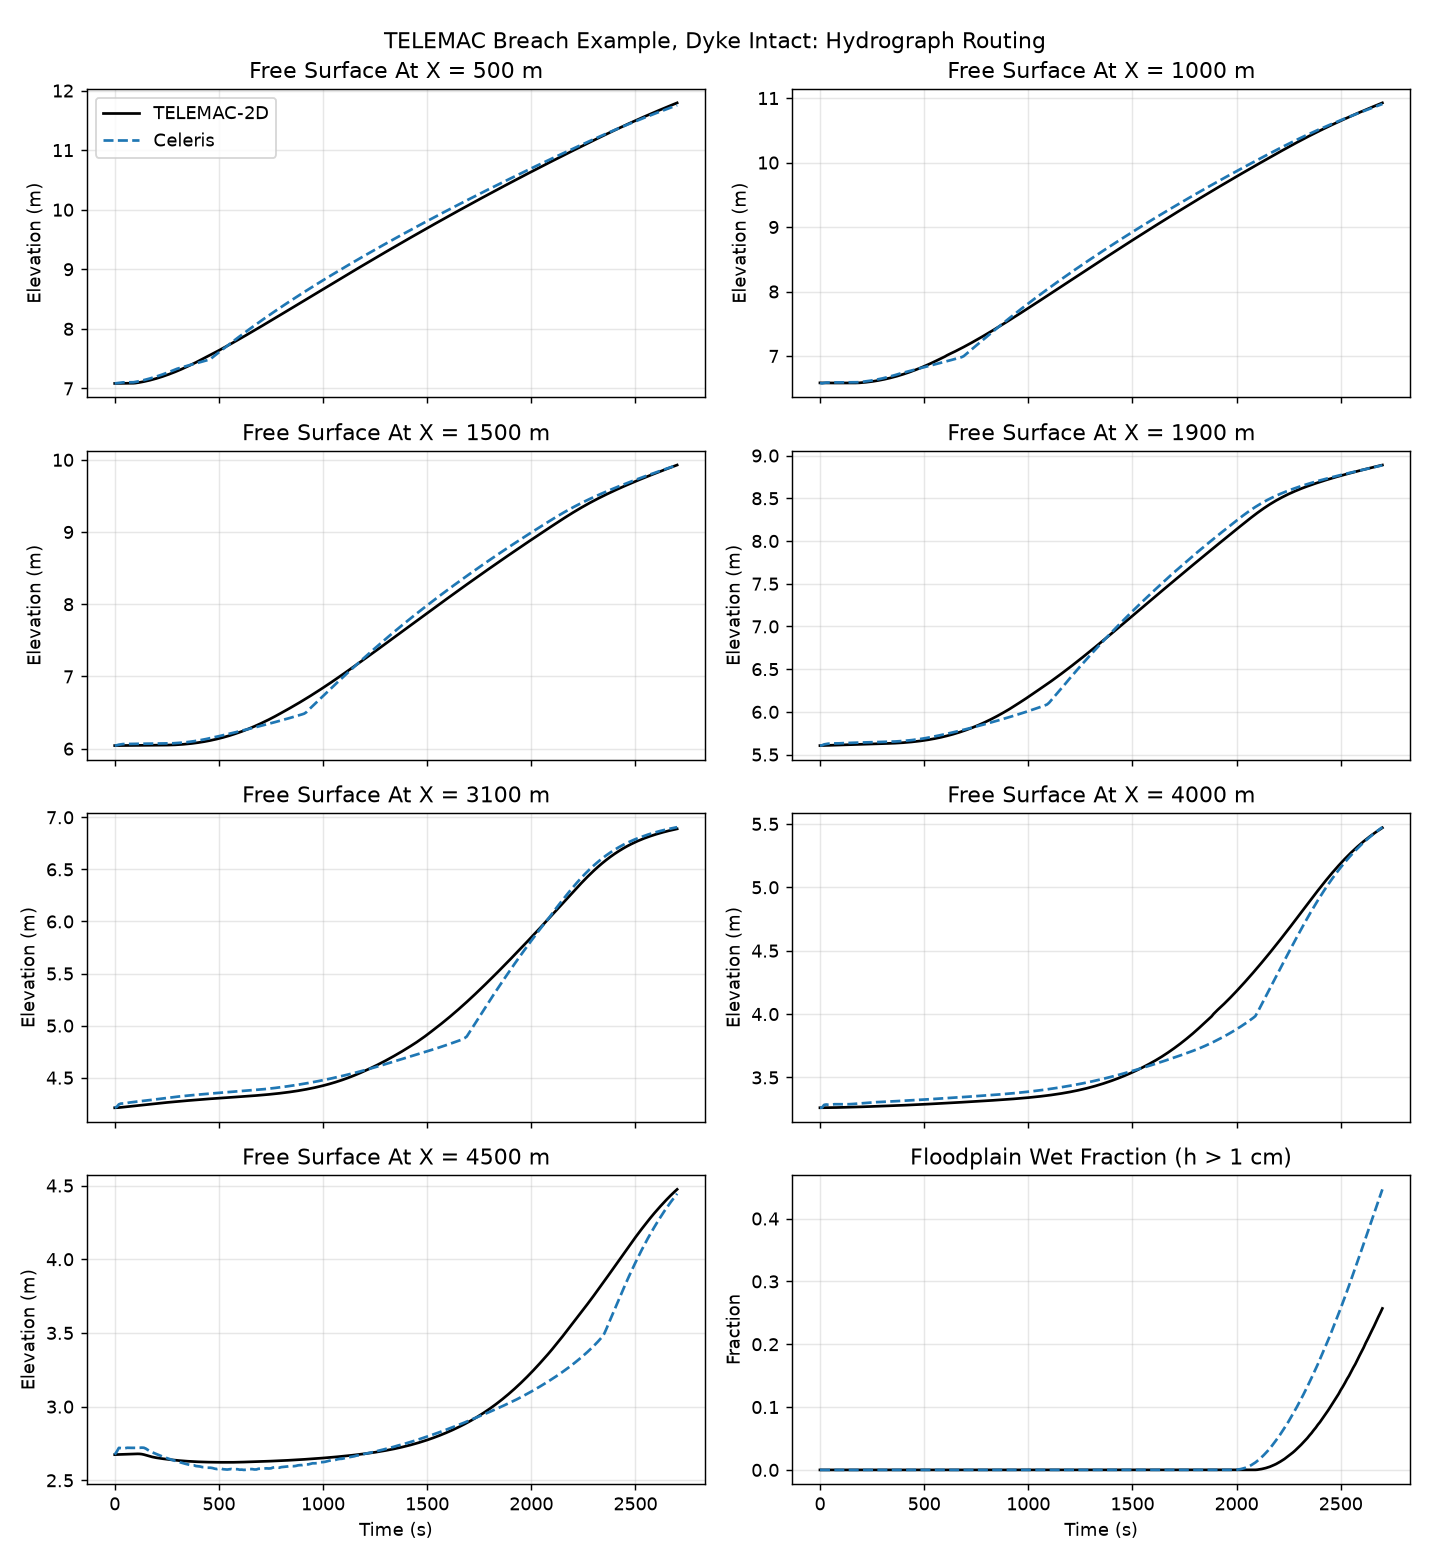
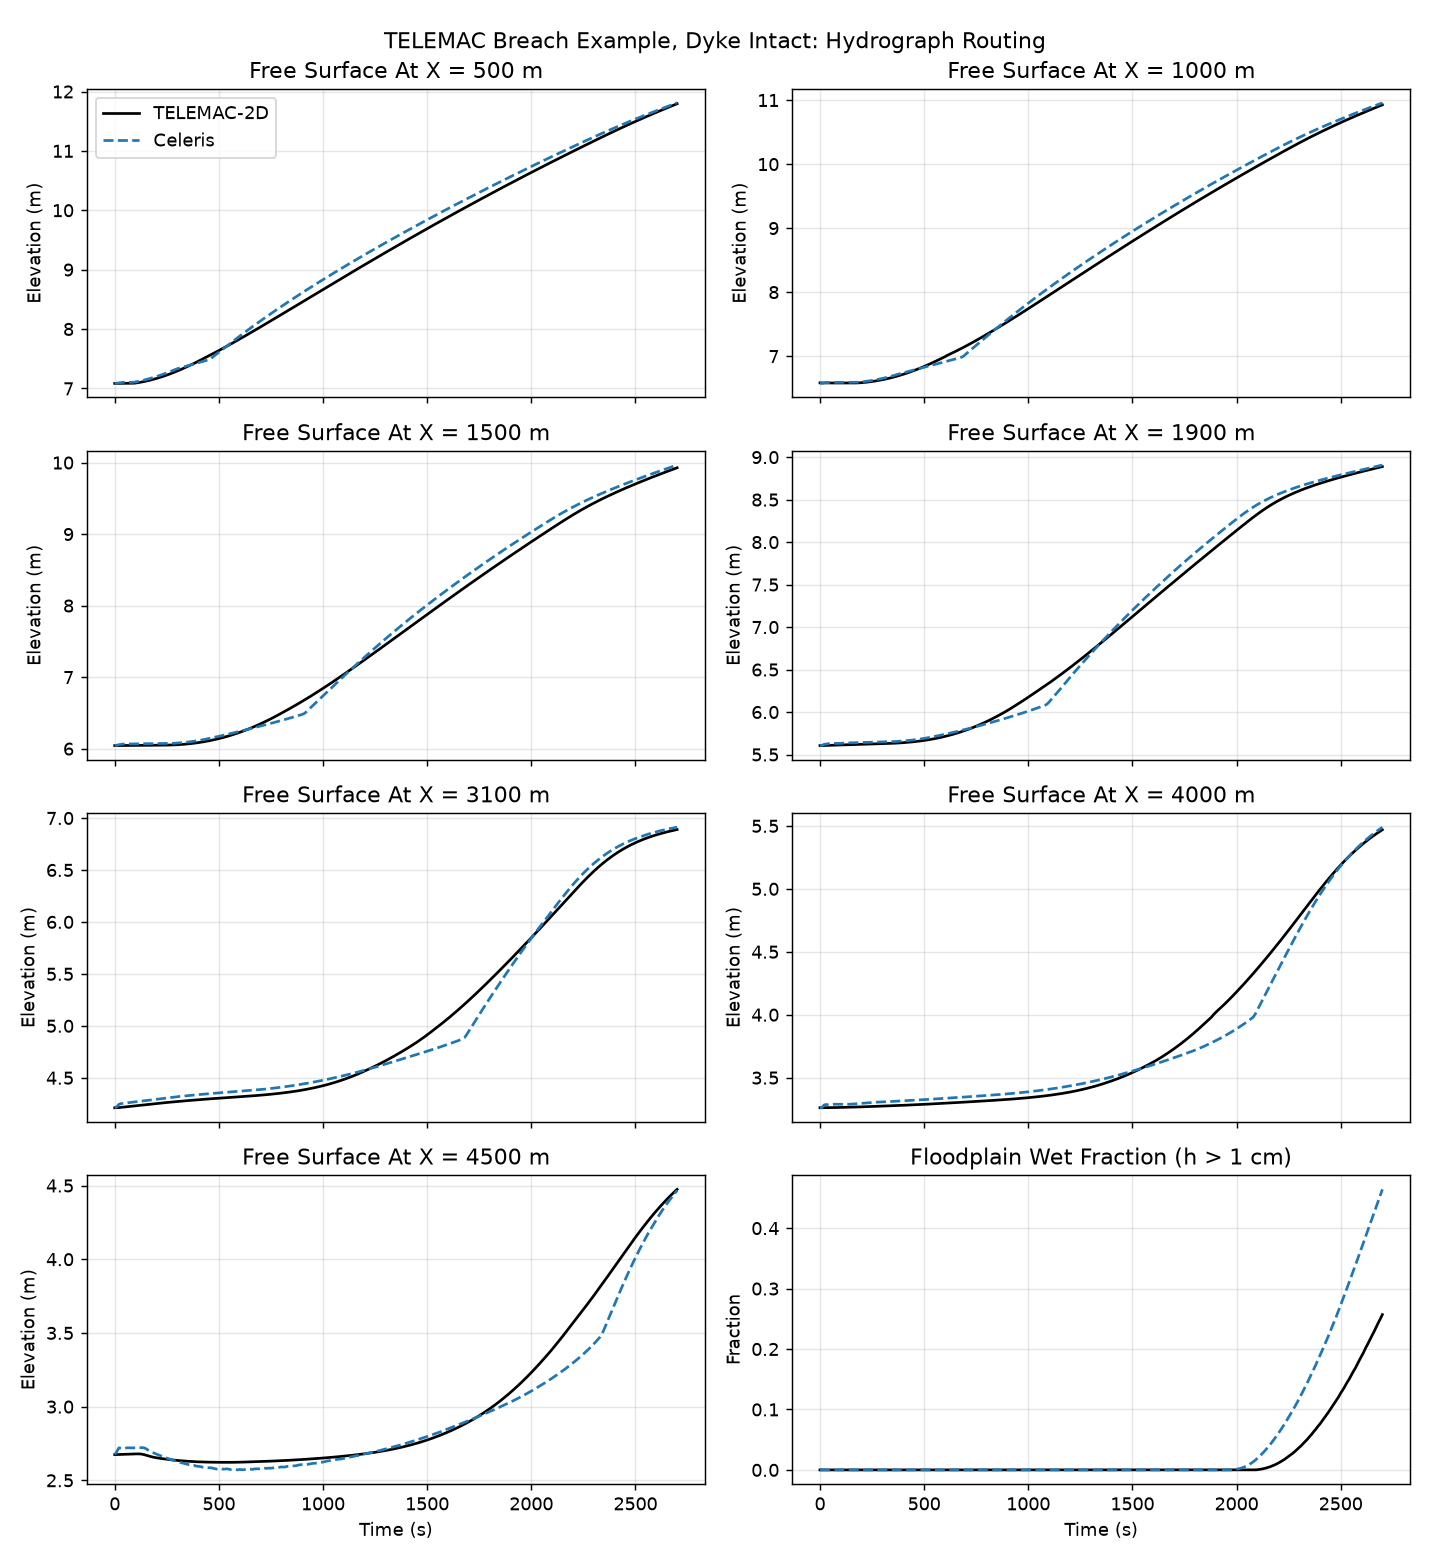
Discharge boundary: wall rows at half weight (TELEMAC profile 1); section-mean q metric
The inflow section counts the wall rows (cell 2 and n-3) at half weight and
gives them half the unit discharge, so the delivered total is exactly Q with a
velocity uniform over the wet section. Bump (discharge boundary, dx 0.05 m):
L1 0.0043 m vs TELEMAC 0.0046, crest depth 0.174 vs exact 0.173, section-mean
q within 1.3 %. Breach boundary variant refreshed. READMEs updated.

diff --git a/celeris/solver.py b/celeris/solver.py
@@ -969,32 +969,40 @@ class Solver:
                     eta_m = srcState[self.BCShift - i, j][0]
                     h_m = ti.max(eta_m - self.Bottom[2, self.BCShift - i, j], 0.0)
                     hu_in = 0.0
-                    if h_m > self.delta and self.InflowArea[0] > 0.0 and j >= 3 and j <= self.ny - 4:
+                    if h_m > self.delta and self.InflowArea[0] > 0.0:
                         hu_in = h_m * self.InflowQ[0] / self.InflowArea[0]
+                        if j == 2 or j == self.ny - 3:
+                            hu_in *= 0.5  # wall cell: half of it lies in the mirror image
                     BCState = ti.Vector([eta_m, hu_in, 0.0, srcState[self.BCShift - i, j][3]], self.precision)
                     BCState_Sed = 0.0
                 if self.bcEast == 5 and i >= self.nx - 2:
                     eta_m = srcState[self.R_x - i, j][0]
                     h_m = ti.max(eta_m - self.Bottom[2, self.R_x - i, j], 0.0)
                     hu_in = 0.0
-                    if h_m > self.delta and self.InflowArea[1] > 0.0 and j >= 3 and j <= self.ny - 4:
+                    if h_m > self.delta and self.InflowArea[1] > 0.0:
                         hu_in = -h_m * self.InflowQ[1] / self.InflowArea[1]
+                        if j == 2 or j == self.ny - 3:
+                            hu_in *= 0.5  # wall cell: half of it lies in the mirror image
                     BCState = ti.Vector([eta_m, hu_in, 0.0, srcState[self.R_x - i, j][3]], self.precision)
                     BCState_Sed = 0.0
                 if self.bcSouth == 5 and j <= 1:
                     eta_m = srcState[i, self.BCShift - j][0]
                     h_m = ti.max(eta_m - self.Bottom[2, i, self.BCShift - j], 0.0)
                     hv_in = 0.0
-                    if h_m > self.delta and self.InflowArea[2] > 0.0 and i >= 3 and i <= self.nx - 4:
+                    if h_m > self.delta and self.InflowArea[2] > 0.0:
                         hv_in = h_m * self.InflowQ[2] / self.InflowArea[2]
+                        if i == 2 or i == self.nx - 3:
+                            hv_in *= 0.5  # wall cell: half of it lies in the mirror image
                     BCState = ti.Vector([eta_m, 0.0, hv_in, srcState[i, self.BCShift - j][3]], self.precision)
                     BCState_Sed = 0.0
                 if self.bcNorth == 5 and j >= self.ny - 2:
                     eta_m = srcState[i, self.R_y - j][0]
                     h_m = ti.max(eta_m - self.Bottom[2, i, self.R_y - j], 0.0)
                     hv_in = 0.0
-                    if h_m > self.delta and self.InflowArea[3] > 0.0 and i >= 3 and i <= self.nx - 4:
+                    if h_m > self.delta and self.InflowArea[3] > 0.0:
                         hv_in = -h_m * self.InflowQ[3] / self.InflowArea[3]
+                        if i == 2 or i == self.nx - 3:
+                            hv_in *= 0.5  # wall cell: half of it lies in the mirror image
                     BCState = ti.Vector([eta_m, 0.0, hv_in, srcState[i, self.R_y - j][3]], self.precision)
                     BCState_Sed = 0.0
                 # Resolve corner cells with a true double reflection instead of
@@ -1261,14 +1269,20 @@ class Solver:
             i = 2
             if side == 1:
                 i = self.nx - 3
-            for j in range(3, self.ny - 3):  # wall rows 2 and ny-3 carry no inflow
-                area += ti.max(self.State[i, j][0] - self.Bottom[2, i, j], 0.0) * self.dy
+            for j in range(2, self.ny - 2):
+                w = 1.0
+                if j == 2 or j == self.ny - 3:
+                    w = 0.5  # the wall passes through the centre of these cells
+                area += w * ti.max(self.State[i, j][0] - self.Bottom[2, i, j], 0.0) * self.dy
         else:
             j = 2
             if side == 3:
                 j = self.ny - 3
-            for i in range(3, self.nx - 3):  # wall columns 2 and nx-3 carry no inflow
-                area += ti.max(self.State[i, j][0] - self.Bottom[2, i, j], 0.0) * self.dx
+            for i in range(2, self.nx - 2):
+                w = 1.0
+                if i == 2 or i == self.nx - 3:
+                    w = 0.5
+                area += w * ti.max(self.State[i, j][0] - self.Bottom[2, i, j], 0.0) * self.dx
         return area
 
     @ti.kernel

diff --git a/examples/validation/bump/bump_validation.py b/examples/validation/bump/bump_validation.py
@@ -150,7 +150,10 @@ def run(
     jm = ny // 2
     eta = st[:, jm, 0] + DATUM_M
     depth = eta - bed[:, jm]
-    hu = st[:, jm, 1]
+    # section unit discharge: rows inside the walls, wall rows (2, ny-3) at half weight
+    w = np.ones(ny - 2 * PAD)
+    w[0] = w[-1] = 0.5
+    hu = (st[:, PAD : ny - PAD, 1] * w).sum(axis=1) / (ny - 2 * PAD - 1)
     return {
         "x": xc,
         "bed": bed[:, jm],
@@ -315,7 +318,7 @@ def main() -> None:
         ax_h.set_ylabel("Elevation (m)")
         ax_h.legend(fontsize=8)
         ax_h.grid(alpha=0.3)
-        ax_q.set_title(f"{title}: Unit Discharge")
+        ax_q.set_title(f"{title}: Section-Mean Unit Discharge")
         ax_q.set_ylabel("q (m2/s)")
         ax_q.legend(fontsize=8)
         ax_q.grid(alpha=0.3)

diff --git a/examples/validation/bump/README.md b/examples/validation/bump/README.md
@@ -30,36 +30,37 @@ source has no inlet hump).
 
 ## Results, discharge boundary (`results/bump_profiles_boundary*.png`)
 
-| case | crest depth (m) | depth at x = 2 m | unit discharge upstream | L1 depth error |
+| case | crest depth (m) | depth at x = 2 m | section-mean unit discharge | L1 depth error |
 |---|---|---|---|---|
 | exact, transcritical | 0.1728 (critical) | 0.497 | 0.225 | 0 |
 | TELEMAC HLLC, 0.25 m mesh | 0.180 | 0.497 | 0.225 | 0.0046 |
-| Celeris, dx 0.05 m | 0.1727 | 0.499 | 0.225 | 0.0042 |
-| Celeris, dx 0.25 m | 0.171 | 0.495 | 0.225 | 0.0044 |
-| Celeris, dx 0.5 m (bump on 4 cells) | 0.166 | 0.485 | 0.225 | 0.014 |
+| Celeris, dx 0.05 m | 0.174 | 0.501 | 0.228 | 0.0043 |
+| Celeris, dx 0.25 m (earlier inflow split) | 0.171 | 0.495 | 0.225 | 0.0044 |
+| Celeris, dx 0.5 m, bump on 4 cells (earlier inflow split) | 0.166 | 0.485 | 0.225 | 0.014 |
 | exact, subcritical | 0.471 | 0.809 | 0.75 | 0 |
 | TELEMAC HLLC | 0.473 | 0.809 | 0.750 | 0.0074 |
-| Celeris, dx 0.05 m | 0.471 | 0.806 | 0.750 | 0.0066 |
+| Celeris, dx 0.05 m | 0.465 | 0.806 | 0.760 | 0.0062 |
 
 Legacy and conserving schemes give identical results here (no dry cell). The
 crest passes the imposed discharge at the exact head down to a bump resolved by
-four cells; the shock position is within one TELEMAC element.
+four cells; the shock position is within one TELEMAC element. The discharge
+boundary spreads the inflow with a velocity uniform over the wet section, wall
+rows at half weight (see rule 2 below), which is TELEMAC's profile option 1.
 
 ## Results, interior source (`results/bump_profiles_source.png`)
 
 | case | crest depth (m) | depth at x = 2 m | unit discharge upstream | L1 depth error |
 |---|---|---|---|---|
 | TELEMAC HLLC, 8 sources at x = 1 m, transcritical | 0.180 | 0.497 | 0.224 | 0.0048 |
-| Celeris `HydrographSource`, strip at x = 1 m, dx 0.05 m | 0.176 | 0.503 | 0.230 (centreline) | 0.0054 |
+| Celeris `HydrographSource`, strip at x = 1 m, dx 0.05 m | 0.176 | 0.503 | 0.231 | 0.0054 |
 | TELEMAC HLLC, subcritical | 0.473 | 0.807 | 0.745 | 0.0078 |
-| Celeris `HydrographSource`, subcritical | 0.460 | 0.806 | 0.768 (centreline) | 0.0059 |
+| Celeris `HydrographSource`, subcritical | 0.460 | 0.806 | 0.769 | 0.0059 |
 
 The interior source reproduces the exact solution to the same accuracy as
 TELEMAC's sources do, with no inlet hump in a 20 m channel once the strip sits
-clear of the wall column. The centreline unit discharge reads 2.4 % above the
-imposed mean because Celeris' wall passes through the centre of the first
-interior row (that row counts half) and the centreline carries slightly more
-than the section mean; the section-integrated discharge is the imposed one.
+clear of the wall column. The section-mean unit discharge (wall rows at half
+weight) reads 1 to 3 % above the imposed value in both inflow modes; the
+discrete section weights of the wall rows account for most of it.
 
 ## Two setup rules this case taught
 

diff --git a/examples/validation/breach/README.md b/examples/validation/breach/README.md
@@ -120,19 +120,21 @@ The case now runs with either hydrograph mechanism. Conserving scheme, full
 
 | x (m) | source, 20 m wall pads (earlier) | source, mirrored pads | discharge boundary, mirrored pads |
 |---|---|---|---|
-| 500 | RMSE 0.06, bias +0.03 | 0.14, +0.12 | 0.09, +0.06 |
-| 1000 | 0.05, +0.02 | 0.13, +0.09 | 0.08, +0.04 |
-| 1900 | 0.06, +0.00 | 0.10, +0.04 | 0.08, +0.01 |
-| 3100 | 0.08, -0.00 | 0.10, +0.00 | 0.10, -0.02 |
-| 4500 | 0.09, -0.04 | 0.10, -0.05 | 0.12, -0.06 |
-| floodplain wet area at 2700 s (TELEMAC 26 %) | 42 % | 48 % | 45 % |
+| 500 | RMSE 0.06, bias +0.03 | 0.14, +0.12 | 0.11, +0.09 |
+| 1000 | 0.05, +0.02 | 0.13, +0.09 | 0.10, +0.07 |
+| 1900 | 0.06, +0.00 | 0.10, +0.04 | 0.09, +0.02 |
+| 3100 | 0.08, -0.00 | 0.10, +0.00 | 0.10, -0.01 |
+| 4500 | 0.09, -0.04 | 0.10, -0.05 | 0.11, -0.06 |
+| floodplain wet area at 2700 s (TELEMAC 26 %) | 42 % | 48 % | 46 % |
 
 The rim was changed from a 20 m wall to a mirror of the interior after the
 `bump` case showed that a tall pad next to small cells triggers the solver's
 steep-slope Froude cap in the adjacent rows (see `../bump/README.md`). On this
 2.5 m grid the pad step was 5 cells high, so the cap did not bite, and the
 mirrored rim costs 4 to 8 cm of extra upstream level for both inflow types; the
-cause was not traced. The discharge boundary removes the inlet hump the source
-made (bias at x = 500 m halves) and reproduces TELEMAC's own inflow condition.
+cause was not traced, and the upstream level is also sensitive to how the
+inflow is split across the section (a 6 cm swing between excluding the wall
+rows and weighting them by one half). The discharge boundary reproduces
+TELEMAC's own inflow condition and trims the inlet hump of the source.
 Legacy blows up within 10 s on the mirrored-pad grid (it ran to 2628 s on the
 wall-pad grid), so this case is a conserving-scheme case in the regression set.
